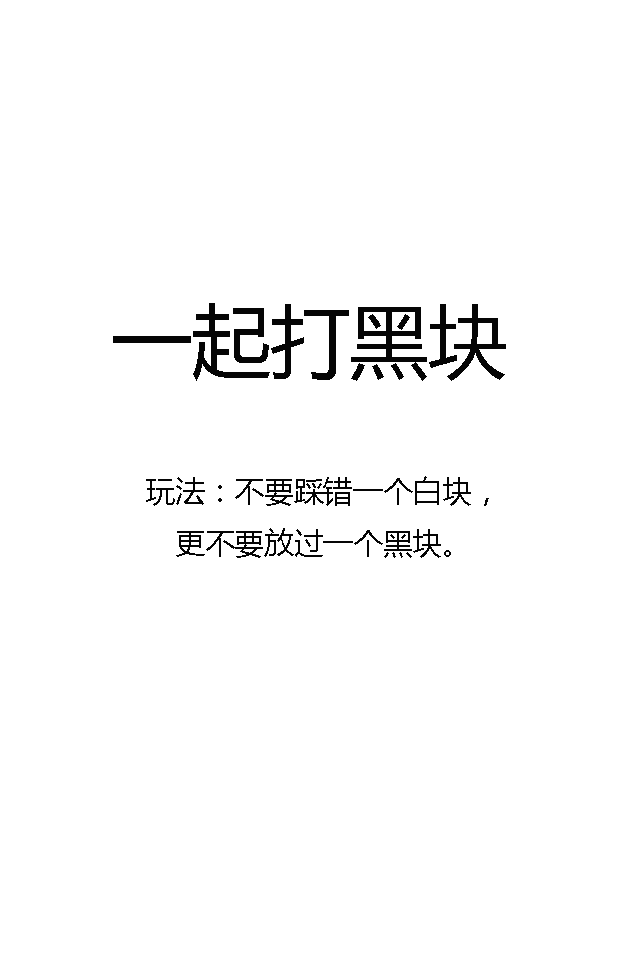
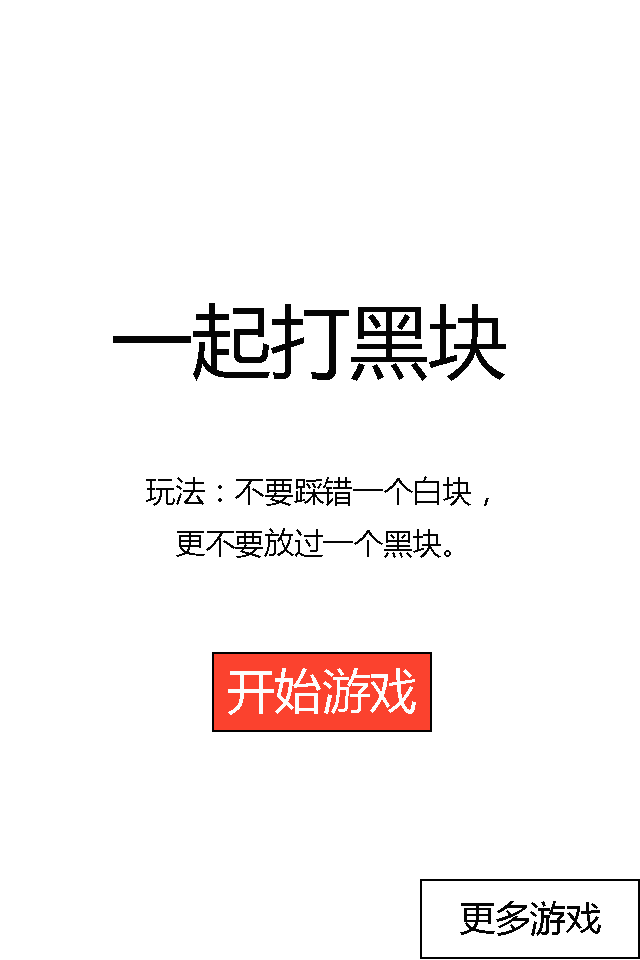
demo

diff --git a/danzi/index.html b/danzi/index.html
@@ -4,7 +4,8 @@
 	<title></title>
 	<meta name="viewport" content="width=device-width,height=device-height,initial-scale=1.0,user-scalable=no">
 <style>
-#canvas1{border:1px solid black;margin:0px 0px;}
+#canvas1{border:0px solid black;margin:0px 0px;}
+body{margin:0px;}
 </style>
 <script>
 function game(){
@@ -22,6 +23,12 @@ function game(){
 	this.startblack.src="./image/startblack.png";
 	this.startyellow=new Image();
 	this.startyellow.src="./image/startyellow.png";
+	this.superblack=new Image();
+	this.superblack.src="./image/superblack.png";
+	this.startbackground=new Image();
+	this.startbackground.src="./image/startbackground.png";
+	this.endbackground=new Image();
+	this.endbackground.src="./image/endbackground.png";
 	//玩家的操作序列
 	this.wanjia=new Array();
 	//生成的块序列
@@ -34,7 +41,17 @@ function game(){
 	this.temp=0;
 	//是否在动画状态
 	this.isanimation=false;
-	
+	//分数
+	this.bonus=0;
+	//个数
+	this.geshu=0;
+	//是否是20的倍数
+	this.flag=new Array();
+	this.tempflag=0;
+	//super黑块的个数
+	this.supercounter=0;
+	//剩余时间
+	this.lasttime=6000;
 }
 
 game.prototype.draw=function(height,obj1,obj2,obj3,obj4){
@@ -60,37 +77,47 @@ game.prototype.animation=function(c){
 	for(var i=0;i<4;i++){
 		switch(this.block[i]){
 		case 1:
-		this.draw((2-i)*this.documentHeight/4+c,this.black,this.white,this.white,this.white);
+		
+		if(this.flag[i]==0)this.draw((2-i)*this.documentHeight/4+c,this.black,this.white,this.white,this.white);
+		else this.draw((2-i)*this.documentHeight/4+c,this.superblack,this.white,this.white,this.white);
 		break;
 		case 2:
 		
-		this.draw((2-i)*this.documentHeight/4+c,this.white,this.black,this.white,this.white);
+		if(this.flag[i]==0)this.draw((2-i)*this.documentHeight/4+c,this.white,this.black,this.white,this.white);
+		else this.draw((2-i)*this.documentHeight/4+c,this.white,this.superblack,this.white,this.white);
 		break;
 		case 3:
 		
-		this.draw((2-i)*this.documentHeight/4+c,this.white,this.white,this.black,this.white);
+		if(this.flag[i]==0)this.draw((2-i)*this.documentHeight/4+c,this.white,this.white,this.black,this.white);
+		else this.draw((2-i)*this.documentHeight/4+c,this.white,this.white,this.superblack,this.white);
 		break;
 		case 4:
-		this.draw((2-i)*this.documentHeight/4+c,this.white,this.white,this.white,this.black);
-		
+		if(this.flag[i]==0)this.draw((2-i)*this.documentHeight/4+c,this.white,this.white,this.white,this.black);
+		else this.draw((2-i)*this.documentHeight/4+c,this.white,this.white,this.white,this.superblack);
 		break;
 		}
 	}
 		switch(this.temp){
 		case 1:
-		this.draw(3*this.documentHeight/4+c,this.black,this.white,this.white,this.white);
+		if(this.tempflag==0)this.draw(3*this.documentHeight/4+c,this.black,this.white,this.white,this.white);
+		else this.draw(3*this.documentHeight/4+c,this.superblack,this.white,this.white,this.white);
 		break;
 		case 2:
 		
-		this.draw(3*this.documentHeight/4+c,this.white,this.black,this.white,this.white);
+		if(this.tempflag==0)this.draw(3*this.documentHeight/4+c,this.white,this.black,this.white,this.white);
+		else this.draw(3*this.documentHeight/4+c,this.white,this.superblack,this.white,this.white);
 		break;
 		case 3:
 		
-		this.draw(3*this.documentHeight/4+c,this.white,this.white,this.black,this.white);
+		if(this.tempflag==0)this.draw(3*this.documentHeight/4+c,this.white,this.white,this.black,this.white);
+		else this.draw(3*this.documentHeight/4+c,this.white,this.white,this.superblack,this.white);
 		break;
 		case 4:
-		this.draw(3*this.documentHeight/4+c,this.white,this.white,this.white,this.black);
-		
+		if(this.tempflag==0) this.draw(3*this.documentHeight/4+c,this.white,this.white,this.white,this.black);
+		else this.draw(3*this.documentHeight/4+c,this.white,this.white,this.white,this.superblack);
+		break;
+		case 0:
+		this.draw(3*this.documentHeight/4+c,this.startyellow,this.startyellow,this.startyellow,this.startyellow);
 		break;
 		}
 	
@@ -98,9 +125,11 @@ game.prototype.animation=function(c){
 
 
 game.prototype.zhen=function(GAME){
+	
+
 	//游戏主循环
 	if(this.isanimation){
-		if(this.counter==5){this.counter=0;this.temp=this.block.shift();this.isanimation=false;}
+		if(this.counter==5){this.counter=0;this.temp=this.block.shift();this.tempflag=this.flag.shift();this.isanimation=false;}
 		else{
 		this.counter++;
 		this.animation(this.documentHeight/4/5*this.counter);
@@ -112,9 +141,9 @@ game.prototype.zhen=function(GAME){
 	if(!this.isanimation){
 			//如果不是在动画状态，执行逻辑
 			this.animation(0);
-			if(this.block.length<20){
+			if(this.block.length<100){
 				//增加白块
-				for(var i=this.block.length;i<20;i++){
+				for(var i=this.block.length;i<100;i++){
 					var k;
 					var lyq=Math.random();
 					if(lyq<1/4)k=1;
@@ -123,31 +152,54 @@ game.prototype.zhen=function(GAME){
 					else k=4;
 					this.block.push(k);
 				}
+				
+				for(var i=0;i<100;i++){
+					this.flag[i+20]=this.flag[i];
+				}
 			}
 		if(this.wanjia.length){
 			var haha=this.wanjia.shift();
 			if(haha==this.block[0]){
 				//成功触碰到黑块，开启动画状态
-				//this.temp=this.block.shift();
 				this.counter=0;
 				this.isanimation=true;
-				
+				this.bonus+=100;
+				if(this.flag[0])this.supercounter++;
 			}
 			else{
 				//触碰到白块,游戏结束
+				this.gameover();
 				return;
 			}
 			
 		} 
 	}
+	//时间
+	var nowtime=new Date();
+	this.lasttime=60000-(nowtime.getTime()-this.date.getTime());
+	if(this.lasttime<=0)this.lasttime=0;
+	this.ctx.font="bold 20px 宋体";
+	this.ctx.fillStyle="red";
+	this.ctx.fillText(this.lasttime/1000,this.documentWidth/2-20,20);
+	if(this.lasttime==0){this.gameover();return;}
 	window.webkitRequestAnimationFrame(function(){GAME.zhen(GAME)});
 }
 
+game.prototype.gameover=function(){
+	this.ctx.drawImage(this.endbackground,0,0,this.documentWidth,this.documentHeight);
+	this.canvas1.addEventListener('touchstart',playagain);
+	var G=this;
+	function playagain(ev){
+		G.canvas1.removeEventListener('touchstart',playagain);
+		var GAME=new game();
+		startgame(GAME);
+	}
+}
 
-window.onload=function(){
-	var GAME=new game();
+function startgame(GAME){
+
 	GAME.canvas1.addEventListener('touchstart',function(ev){GAME.touch(ev);});
-				for(var i=GAME.block.length;i<20;i++){
+				for(var i=0;i<20;i++){
 					var k;
 					var lyq=Math.random();
 					if(lyq<1/4)k=1;
@@ -155,12 +207,30 @@ window.onload=function(){
 					else if(lyq<3/4)k=3;
 					else k=4;
 					GAME.block.push(k);
+					if(i!=19)GAME.flag.push(0);
+					else GAME.flag.push(1);
 				}
 	counter=0;
+	GAME.date=new Date();
+	
 	window.webkitRequestAnimationFrame(function(){GAME.zhen(GAME)});
 	
-
 }
+
+window.onload=function(){
+	var GAME=new game();
+	GAME.startbackground.onload=function(){
+	GAME.ctx.drawImage(GAME.startbackground,0,0,GAME.documentWidth,GAME.documentHeight);
+	}
+	GAME.canvas1.addEventListener('touchstart',kaishidianji);
+	function kaishidianji(ev){
+		GAME.canvas1.removeEventListener('touchstart',kaishidianji);
+		startgame(GAME);
+
+	}
+	
+}
+
 </script>
 </head>
 <body>
